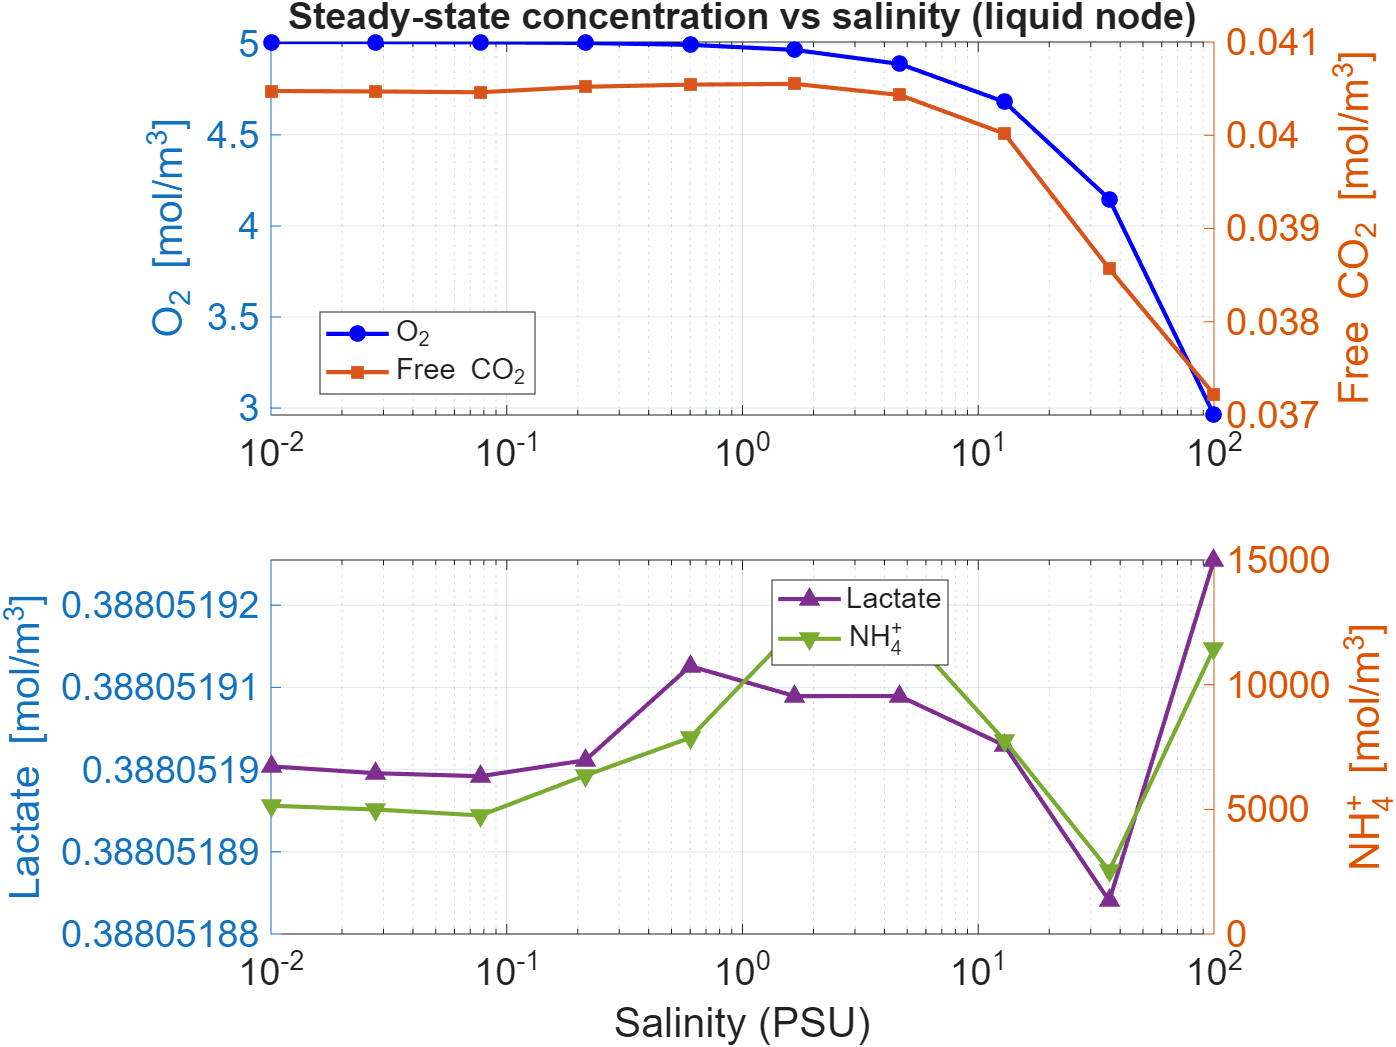
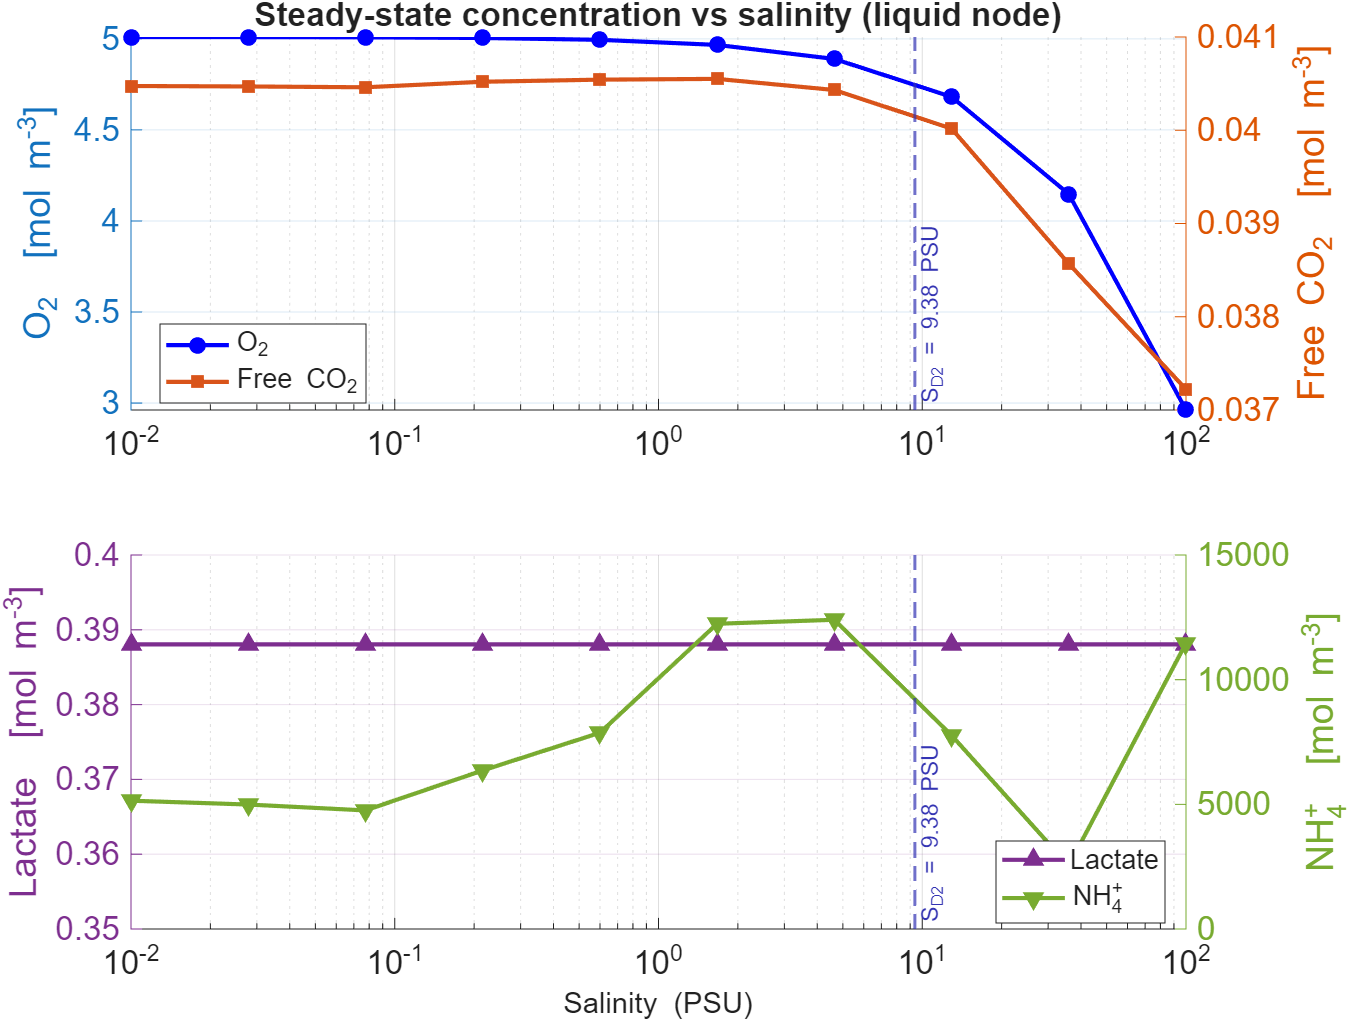
Update shaker sufficiency and salinity slide images

diff --git a/docs/bioreactor/index.html b/docs/bioreactor/index.html
@@ -771,7 +771,7 @@ const SECTIONS = {
         heading: 'Is the Shaker Alone Sufficient?',
         text: 'The final frame of the simulation shows the steady-state concentration fields across the bioreactor. Dissolved O₂ (panel 3) remains at adequate levels throughout the hydrogel — the shaker-driven k<sub>L</sub> is sufficient to meet cellular demand at the nominal RPM. Free dissolved CO₂ (panel 4), however, is elevated in the hydrogel interior, indicating that CO₂ produced by the SimCells is not being stripped fast enough. This elevated CO₂ shifts the carbonate equilibrium, reducing local pH and thereby lowering NH₃ availability for arginine synthesis. Whether a stirrer is required depends on the effective gel-phase diffusivity D<sub>eff</sub> — this will be resolved once the second diffusivity experiment is complete. Current assessment: shaker sufficient for O₂; CO₂ accumulation is the primary concern.',
         mediaLabel: null,
-        mediaFile: 'images/shaker_steady_state.png', mediaType: 'image'
+        mediaFile: 'images/Shaker_change_new.png', mediaType: 'image'
       }
     ]
   },
